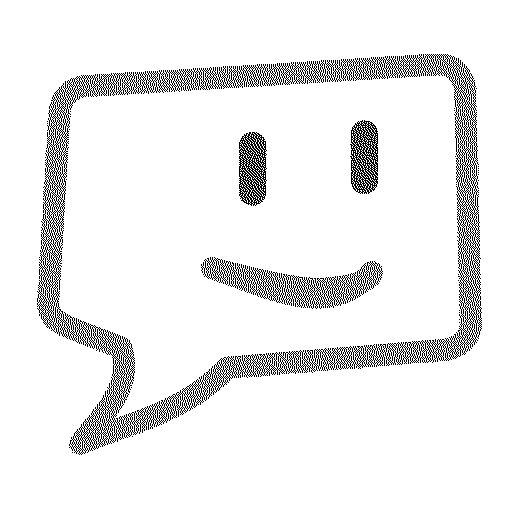
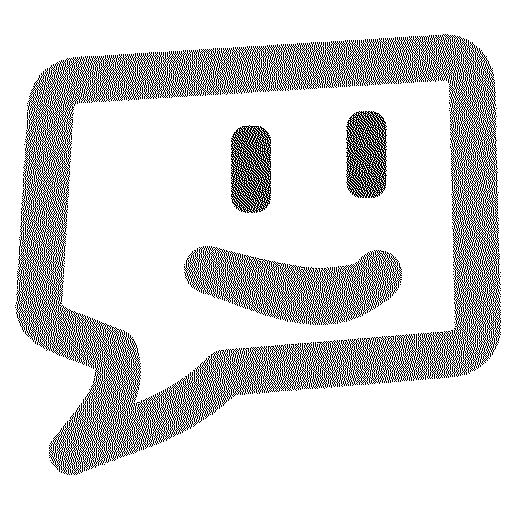
simplechat 아이콘 더 두껍게 처리

Changed region(s): [[0.0312, 0.0625, 1.0, 0.9375], [0.6562, 0.2188, 0.7812, 0.4062], [0.4375, 0.25, 0.5312, 0.4375]]

diff --git a/src/app/nakama.service.ts b/src/app/nakama.service.ts
@@ -754,8 +754,10 @@ export class NakamaService {
   }
   /** 기등록된 아이디 수집 */
   registered_id: number[];
-  /** 웹에서 등록된 예약 알림의 경우 */
-  web_id: { [id: string]: NodeJS.Timeout } = {};
+  /** 웹에서 등록된 예약 알림의 경우  
+   * { id: timeout }
+  */
+  web_id = {};
   /** 세션 재접속 시 기존 정보를 이용하여 채팅방에 다시 로그인함 */
   redirect_channel(_is_official: string, _target: string) {
     if (this.channels_orig[_is_official][_target]) {
